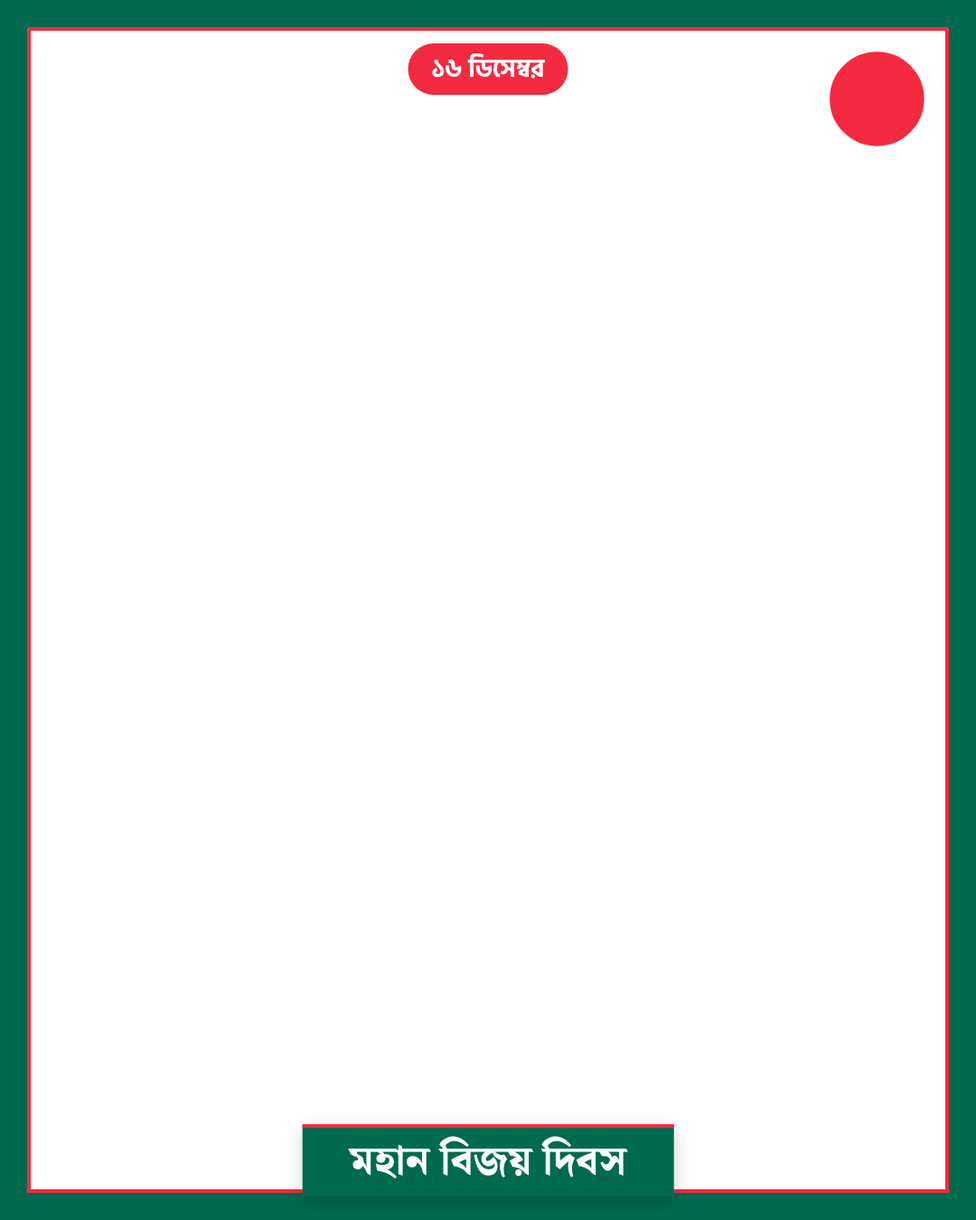
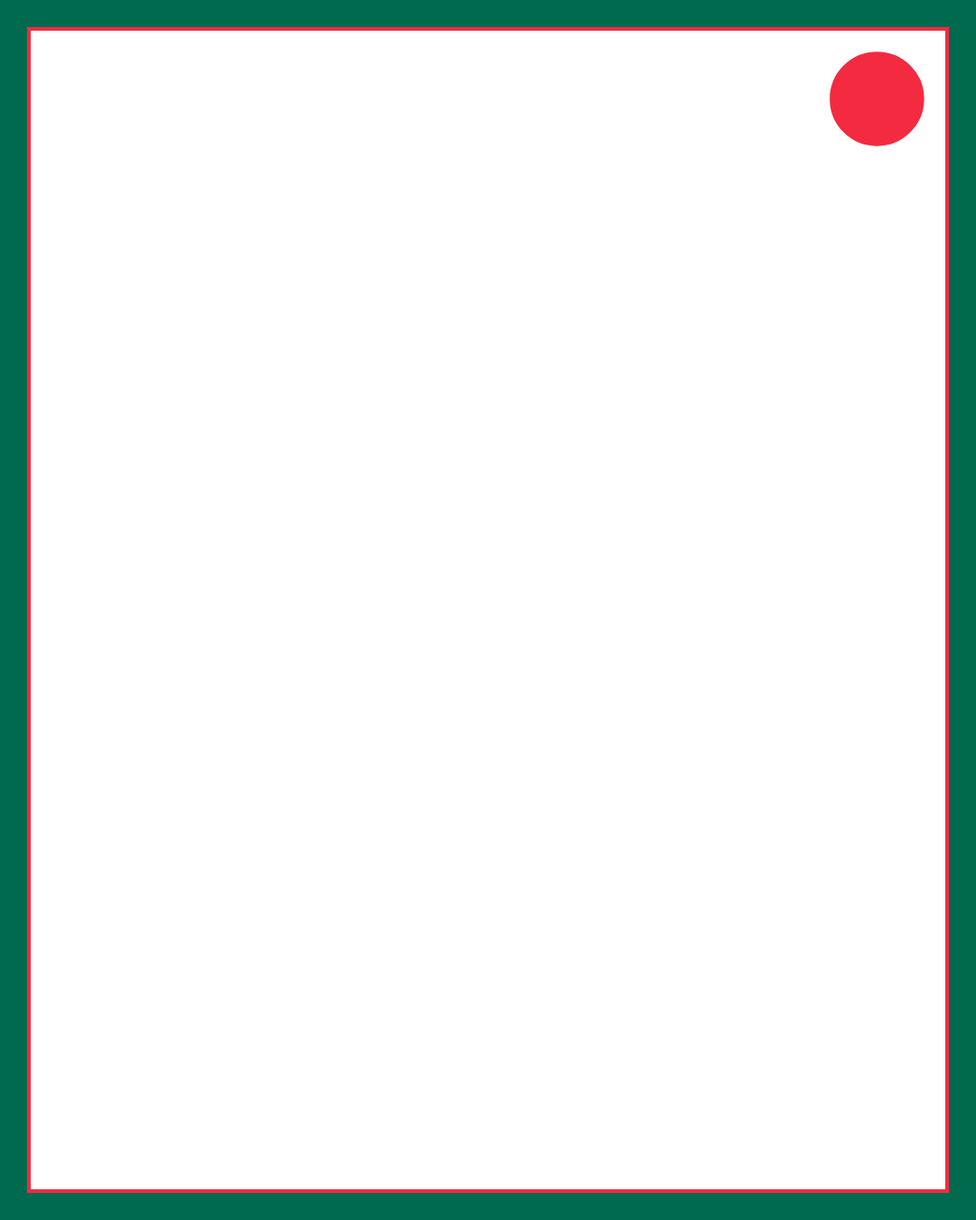
Make every ready-made frame a built-in studio design (2.0.5)
Uploaded and ready-made PNG frames were drawn over whichever stock layout
happened to be first, and the full-artwork types (day, birthday,
condolence) put their text straight over the photo, so they looked like
bare borders. Each design is now a built-in preset: a stock layout plus
its bundled PNG, picked and previewed like ক্লাসিক or ছায়া.

- News, feature, category: 8 designs; opinion: 3; day: 6; birthday: 2;
  condolence: 2. All four sizes.
- Day/birthday/condolence keep their artwork; their PNGs are re-rendered
  without the duplicate text labels (frames.html deco=1).
- Stock camera corners are off on these designs; breaking keeps the
  frames as ready-made rows.
- Frame thumbnails in the studio show the frame on a live card.

Claude-Session: https://claude.ai/code/session_01EUuurszYZyQdSQhF1CtKyJ

Changed region(s): [[0.3056, 0.9022, 0.7028, 0.9956], [0.3972, 0.0311, 0.5806, 0.0933]]

diff --git a/extras/photo-frames/source/news-opinion.js b/extras/photo-frames/source/news-opinion.js
@@ -1,0 +1,55 @@
+// Draws the 3 news + 3 opinion frames (theme presets surjo, nokshi, sonali, sompadokiyo, bishleshon, kolom) into out/, 4 sizes each.
+const {chromium}=require('/opt/node-tools/node_modules/playwright');
+const F='file:///home/claude/Meeha-Child-Theme/theme/meeha/assets/fonts/';
+const SIZES=[[1080,1080],[1080,1350],[1200,630],[1080,1920]];
+// tab at top centre: returns svg
+function tab(W,s0,txt,{fill,color,dot,w,stroke}){const s=Math.max(s0,.8);const h=58*s,tw=(w||320)*s,x=(W-tw)/2,r=16*s;
+ return `<path d="M${x} 0 H${x+tw} V${h-r} Q${x+tw} ${h} ${x+tw-r} ${h} H${x+r} Q${x} ${h} ${x} ${h-r} Z" fill="${fill}" ${stroke?`stroke="${stroke}" stroke-width="${3*s}"`:''}/>`+
+ (dot?`<circle cx="${x+34*s}" cy="${h/2}" r="${9*s}" fill="${dot}"/><circle cx="${x+34*s}" cy="${h/2}" r="${15*s}" fill="none" stroke="${dot}" stroke-opacity=".45" stroke-width="${3*s}"/>`:'')+
+ `<text x="${W/2+(dot?16*s:0)}" y="${h/2+1*s}" font-family="MS" font-weight="600" font-size="${27*s}" fill="${color}" text-anchor="middle" dominant-baseline="middle">${txt}</text>`;}
+function flower(cx,cy,r,c1,c2,c3){let p='';for(let i=0;i<8;i++){const a=i*Math.PI/4;p+=`<ellipse cx="${cx+Math.cos(a)*r*.55}" cy="${cy+Math.sin(a)*r*.55}" rx="${r*.42}" ry="${r*.2}" transform="rotate(${i*45} ${cx+Math.cos(a)*r*.55} ${cy+Math.sin(a)*r*.55})" fill="${i%2?c1:c2}"/>`;}
+ return p+`<circle cx="${cx}" cy="${cy}" r="${r*.26}" fill="${c3}"/><circle cx="${cx}" cy="${cy}" r="${r*.11}" fill="#fff"/>`;}
+const D={
+ 'news-surjo-nil':(W,H,s)=>{const B=26*s;return `<defs><linearGradient id="g" x1="0" y1="0" x2="1" y2="1"><stop offset="0" stop-color="#0A69C6"/><stop offset="1" stop-color="#00A6E0"/></linearGradient></defs>
+  <path fill-rule="evenodd" fill="url(#g)" d="M0 0H${W}V${H}H0Z M${B} ${B}V${H-B}H${W-B}V${B}Z"/>
+  <rect x="${B+7*s}" y="${B+7*s}" width="${W-2*B-14*s}" height="${H-2*B-14*s}" fill="none" stroke="#fff" stroke-opacity=".85" stroke-width="${2.5*s}"/>
+  ${[[0,0,1,1],[W,0,-1,1],[0,H,1,-1],[W,H,-1,-1]].map(([x,y,a,b])=>`<path d="M${x} ${y+b*110*s}V${y}H${x+a*110*s}" fill="none" stroke="#E5252A" stroke-width="${B*2}"/>`).join('')}
+  ${tab(W,s,'সর্বশেষ সংবাদ',{fill:'#012E5C',color:'#fff',dot:'#FF3B3F',w:330})}`;},
+ 'news-nokshi-lalsobuj':(W,H,s)=>{const B=22*s,i=B+12*s;return `<path fill-rule="evenodd" fill="#006A4E" d="M0 0H${W}V${H}H0Z M${B} ${B}V${H-B}H${W-B}V${B}Z"/>
+  <rect x="${B}" y="${B}" width="${W-2*B}" height="${H-2*B}" fill="none" stroke="#F42A41" stroke-width="${4*s}"/>
+  <rect x="${i}" y="${i}" width="${W-2*i}" height="${H-2*i}" fill="none" stroke="#FFF4D6" stroke-width="${3.5*s}" stroke-dasharray="${14*s} ${9*s}" stroke-linecap="round"/>
+  <rect x="${B/2}" y="${B/2}" width="${W-B}" height="${H-B}" fill="none" stroke="#FFD24A" stroke-width="${2.5*s}" stroke-dasharray="${5*s} ${11*s}" stroke-linecap="round"/>
+  ${[[B,B],[W-B,B],[B,H-B],[W-B,H-B]].map(([x,y])=>`<circle cx="${x}" cy="${y}" r="${30*s}" fill="#006A4E" stroke="#FFF4D6" stroke-width="${2.5*s}"/>`+flower(x,y,27*s,'#F42A41','#FFD24A','#F42A41')).join('')}
+  ${tab(W,s,'আজকের খবর',{fill:'#F42A41',color:'#fff',w:260})}`;},
+ 'news-bishesh-sonali':(W,H,s)=>{const B=30*s,g='#D9A93B';let o='';
+  for(const [x,y,a,b] of [[B,B,1,1],[W-B,B,-1,1],[B,H-B,1,-1],[W-B,H-B,-1,-1]]) o+=`<path d="M${x} ${y+b*70*s}V${y}H${x+a*70*s} M${x+a*12*s} ${y+b*46*s}V${y+b*12*s}H${x+a*46*s}" fill="none" stroke="${g}" stroke-width="${5*s}"/><rect x="${x+a*20*s-6*s}" y="${y+b*20*s-6*s}" width="${12*s}" height="${12*s}" fill="${g}" transform="rotate(45 ${x+a*20*s} ${y+b*20*s})"/>`;
+  return `<path fill-rule="evenodd" fill="#0B1F3A" d="M0 0H${W}V${H}H0Z M${B} ${B}V${H-B}H${W-B}V${B}Z"/>
+  <rect x="${B/2}" y="${B/2}" width="${W-B}" height="${H-B}" fill="none" stroke="${g}" stroke-width="${2*s}"/>
+  <rect x="${B}" y="${B}" width="${W-2*B}" height="${H-2*B}" fill="none" stroke="${g}" stroke-width="${3*s}"/>${o}
+  <defs><linearGradient id="gg" x1="0" x2="1"><stop offset="0" stop-color="#B8862A"/><stop offset=".5" stop-color="#F3D27A"/><stop offset="1" stop-color="#B8862A"/></linearGradient></defs>
+  ${tab(W,s,'বিশেষ প্রতিবেদন',{fill:'url(#gg)',color:'#0B1F3A',w:340,stroke:'#0B1F3A'})}`;},
+ 'opinion-sompadokiyo':(W,H,s)=>{const B=24*s;return `<path fill-rule="evenodd" fill="#F5EBDD" d="M0 0H${W}V${H}H0Z M${B} ${B}V${H-B}H${W-B}V${B}Z"/>
+  <rect x="${B}" y="${B}" width="${W-2*B}" height="${H-2*B}" fill="none" stroke="#0B2746" stroke-width="${4*s}"/>
+  <rect x="${B/2-1.5*s}" y="${B/2-1.5*s}" width="${W-B+3*s}" height="${H-B+3*s}" fill="none" stroke="#C9A24A" stroke-width="${1.6*s}"/>
+  ${[[B,B],[W-B,B],[B,H-B],[W-B,H-B]].map(([x,y])=>`<rect x="${x-9*s}" y="${y-9*s}" width="${18*s}" height="${18*s}" fill="#C9A24A" stroke="#0B2746" stroke-width="${3*s}" transform="rotate(45 ${x} ${y})"/>`).join('')}
+  <path d="M${W/2-90*s} ${H-B/2}H${W/2+90*s}" stroke="#0B2746" stroke-width="${4*s}"/><circle cx="${W/2}" cy="${H-B/2}" r="${7*s}" fill="#C9A24A"/>
+  ${tab(W,s,'সম্পাদকীয়',{fill:'#0B2746',color:'#F5EBDD',w:260})}`;},
+ 'opinion-bishleshon':(W,H,s)=>{const B=12*s,L=34*s;let dots='';for(let r=0;r<4;r++)for(let c=0;c<4;c++){dots+=`<circle cx="${W-B-22*s-c*20*s}" cy="${B+170*s+r*20*s}" r="${3.4*s}" fill="#13A5A0" fill-opacity="${.9-.18*(r+c)/2}"/><circle cx="${L+22*s+c*20*s}" cy="${H-B-22*s-r*20*s}" r="${3.4*s}" fill="#0A69C6" fill-opacity="${.9-.18*(r+c)/2}"/>`;}
+  return `<defs><linearGradient id="t" x1="0" y1="0" x2="0" y2="1"><stop offset="0" stop-color="#0A69C6"/><stop offset="1" stop-color="#13A5A0"/></linearGradient></defs>
+  <path fill-rule="evenodd" fill="url(#t)" d="M0 0H${W}V${H}H0Z M${L} ${B}V${H-B}H${W-B}V${B}Z"/>
+  <rect x="${L+10*s}" y="${B+10*s}" width="${W-L-B-20*s}" height="${H-2*B-20*s}" fill="none" stroke="#fff" stroke-opacity=".7" stroke-width="${2*s}"/>${dots}
+  ${tab(W,s,'বিশ্লেষণ',{fill:'#fff',color:'#0A69C6',w:220,stroke:'#13A5A0'})}`;},
+ 'opinion-khola-kolom':(W,H,s)=>{const B=22*s;const nib=(x,y,k)=>`<g transform="translate(${x} ${y}) scale(${k}) rotate(45)"><path d="M0 -40 C14 -22 16 0 10 18 L0 40 L-10 18 C-16 0 -14 -22 0 -40Z" fill="#B35A00"/><circle r="5" cy="2" fill="#FFF3E0"/><path d="M0 7V38" stroke="#FFF3E0" stroke-width="2.5"/></g>`;
+  return `<defs><linearGradient id="a" x1="0" y1="0" x2="1" y2="1"><stop offset="0" stop-color="#F2A33A"/><stop offset="1" stop-color="#E4572E"/></linearGradient></defs>
+  <path fill-rule="evenodd" fill="url(#a)" d="M0 0H${W}V${H}H0Z M${B} ${B}V${H-B}H${W-B}V${B}Z"/>
+  <path d="M${B} ${B+140*s}V${B}H${B+140*s} M${W-B} ${H-B-140*s}V${H-B}H${W-B-140*s}" fill="none" stroke="#fff" stroke-width="${6*s}" stroke-linecap="round"/>
+  ${tab(W,s,'খোলা কলম',{fill:'#FFF3E0',color:'#B35A00',w:270,stroke:'#E4572E'})}
+  ${nib(W/2-112*s,29*s,.62*s)}`;},
+};
+(async()=>{const b=await chromium.launch({executablePath:'/opt/pw-browsers/chromium'});const pg=await b.newPage();
+for(const [name,fn] of Object.entries(D)) for(const [W,H] of SIZES){const s=Math.min(W,H)/1080*(H===1920?1:1);
+ await pg.setViewportSize({width:W,height:H});
+ await pg.setContent(`<style>@font-face{font-family:MS;font-weight:600;src:url(${F}meeha-sans-bn-600.woff2)}@font-face{font-family:MSerif;font-weight:700;src:url(${F}meeha-serif-bn-700.woff2)}html,body{margin:0;background:transparent}</style><svg xmlns="http://www.w3.org/2000/svg" width="${W}" height="${H}">${fn(W,H,s)}</svg>`);
+ await pg.evaluate(()=>document.fonts.ready);await pg.waitForTimeout(80);
+ await pg.screenshot({path:`out/${name}-${W}x${H}.png`,omitBackground:true});}
+await b.close();})();

diff --git a/theme/meeha/assets/js/cards.js b/theme/meeha/assets/js/cards.js
@@ -327,7 +327,9 @@
 		stops.forEach( function ( s ) { g.addColorStop( s[ 0 ], s[ 1 ] ); } );
 		return g;
 	}
+	var NO_VF = false; /* a রেডিমেড নকশা brings its own corners and tags: the stock camera corners stay off */
 	function viewfinder( ctx, x, y, corner, color, arm, stroke ) {
+		if ( NO_VF ) { return; }
 		arm = arm || 56; stroke = stroke || 6;
 		ctx.fillStyle = color;
 		if ( 'tl' === corner ) { ctx.fillRect( x, y, arm, stroke ); ctx.fillRect( x, y, stroke, arm ); } else { ctx.fillRect( x, y + arm - stroke, arm, stroke ); ctx.fillRect( x + arm - stroke, y, stroke, arm ); }
@@ -1551,6 +1553,31 @@
 		fields: [ 'title', 'subtitle', 'message', 'theme', 'image' ], draw: day };
 	var ALIASES = { birth: 'birthday', 'news-card': 'news', dibos: 'day', shubho: 'morning', 'good-morning': 'morning', mot: 'opinion', latest: 'breaking', shok: 'condolence', cat: 'category', sahitya: 'literature', kobita: 'poem' };
 
+	/* রেডিমেড নকশা: a built-in layout + a bundled transparent PNG (assets/frames/png/{file}-{W}x{H}.png) drawn where an
+	   own frame would go (over the photo, under the text). Picked like any preset; the PHP list is meeha_studio_deco_presets(). */
+	var DECO_NEWS = {
+		surjo: [ 'classic', 'news-surjo-nil', 'সূর্য নীল' ], nokshi: [ 'overlay', 'news-nokshi-lalsobuj', 'নকশি লাল-সবুজ' ],
+		sonali: [ 'band', 'news-bishesh-sonali', 'বিশেষ সোনালি' ], sorboshesh: [ 'band', 'news-sorboshesh', 'সর্বশেষ ট্যাগ' ],
+		breakingband: [ 'overlay', 'news-breaking', 'ব্রেকিং ব্যান্ড' ], exclusive: [ 'classic', 'news-exclusive', 'এক্সক্লুসিভ ট্যাগ' ],
+		special: [ 'classic', 'news-meeha-special', 'মিহা স্পেশাল' ], bracket: [ 'overlay', 'news-nil-bracket', 'নীল কর্নার ব্র্যাকেট' ]
+	};
+	var DECO = {
+		news: DECO_NEWS,
+		feature: ( function () { var o = {}; Object.keys( DECO_NEWS ).forEach( function ( k ) { o[ k ] = [ 'classic' === DECO_NEWS[ k ][ 0 ] ? 'band' : 'shade', DECO_NEWS[ k ][ 1 ], DECO_NEWS[ k ][ 2 ] ]; } ); return o; }() ),
+		opinion: { sompadokiyo: [ 'paper', 'opinion-sompadokiyo', 'সম্পাদকীয়' ], bishleshon: [ 'blue', 'opinion-bishleshon', 'বিশ্লেষণ' ], kolom: [ 'blue', 'opinion-khola-kolom', 'খোলা কলম' ] }
+	};
+	DECO.category = DECO.feature;
+	/* full-artwork types: the stock artwork stays (frameMode overlay), the PNG adds its border and ornaments */
+	DECO.day = {
+		bijoy: [ 'victory', 'bijoy-dibos', 'বিজয় দিবস (সবুজ পাড়)' ], swadhinota: [ 'independence', 'swadhinota-dibos', 'স্বাধীনতা দিবস (লাল-সবুজ পাড়)' ],
+		ekushe: [ 'matribhasha', 'ekushe-february', 'অমর একুশে (বর্ণমালা ও মিনার)' ], boishakhpar: [ 'boishakh', 'pohela-boishakh', 'শুভ নববর্ষ (লাল ফোঁটা)' ],
+		eidpar: [ 'eid', 'eid-mubarak', 'ঈদ মোবারক (সোনালি পাড়)' ], sharodiya: [ 'puja', 'sharodiya-shubhechha', 'শারদীয় শুভেচ্ছা (কাশফুল)' ]
+	};
+	DECO.birthday = { utsob: [ 'balloon', 'jonmodin-confetti', 'কনফেটি ও বেলুন' ], sonali: [ 'night', 'jonmodin-sonali', 'সোনালি পাড়' ] };
+	DECO.condolence = { kalopar: [ 'light', 'shok-kalo-border', 'কালো পাড়' ], konafita: [ 'dark', 'shok-kona-fita', 'কোণের ফিতা (শ্রদ্ধাঞ্জলি)' ] };
+	function decoOf( type, preset ) { var d = DECO[ type ]; return d && preset && Object.prototype.hasOwnProperty.call( d, preset ) ? d[ preset ] : null; }
+	Object.keys( DECO ).forEach( function ( ty ) { if ( templates[ ty ] ) { var pr = Object.assign( {}, templates[ ty ].presets ); Object.keys( DECO[ ty ] ).forEach( function ( k ) { pr[ k ] = DECO[ ty ][ k ][ 2 ]; } ); templates[ ty ].presets = pr; } } );
+
 	function frameUrl( key, W, H ) {
 		var c = cfg(), sfx = 1080 === W && 1080 === H ? '' : '-' + W + 'x' + H;
 		if ( c.frames && c.frames[ key + sfx ] ) { return c.frames[ key + sfx ]; }
@@ -1570,6 +1597,11 @@
 		var t = templates[ type ];
 		if ( ! t ) { return Promise.reject( new Error( 'অজানা কার্ডের ধরন: ' + type ) ); }
 		data = data || {}; opts = opts || {};
+		var dz = opts.frame ? null : decoOf( type, opts.preset || ( 'news' === type ? cfg().newsDefault : '' ) );
+		if ( dz ) {
+			opts = Object.assign( {}, opts, { preset: dz[ 0 ], frameMode: 'overlay', frame: base() + 'assets/frames/png/' + dz[ 1 ] + '-' + ( SIZES[ opts.size ] ? opts.size : '1080x1080' ) + '.png' } );
+			if ( 'day' === type ) { data = Object.assign( {}, data, { theme: dz[ 0 ] } ); }
+		}
 		var sz = SIZES[ opts.size ] || SIZES[ '1080x1080' ], W = sz[ 0 ], H = sz[ 1 ];
 		if ( 1920 === H && ! soloMode( type, opts ) ) { return story( type, data, opts ); }
 		var land = 1200 === W;
@@ -1609,7 +1641,10 @@
 				if ( 'day' === type && DAY[ dayTheme( data, o ) ].noAd ) { o.ad = false; }
 			}
 			ctx.save();
-			if ( solo ) { ink = standalone( type, ctx, W, H, data, o, A, opts.frameText ); } else if ( land ) { landscape( type, ctx, W, H, data, o, A ); } else { t.draw( ctx, W, H, data, o, A ); }
+			NO_VF = !! dz && !! A.frameImg;
+			try {
+				if ( solo ) { ink = standalone( type, ctx, W, H, data, o, A, opts.frameText ); } else if ( land ) { landscape( type, ctx, W, H, data, o, A ); } else { t.draw( ctx, W, H, data, o, A ); }
+			} finally { NO_VF = false; }
 			ctx.restore();
 			if ( o.ad ) { adStrip( ctx, W, H, A.adImg ); }
 			cv.setAttribute( 'data-card-type', type );
@@ -1831,7 +1866,7 @@
 	}
 
 	root.MeehaCards = {
-		version: '2.0.4',
+		version: '2.0.5',
 		configure: configure,
 		preview: preview,
 		render: render,
@@ -1843,6 +1878,7 @@
 		quoteFrames: QUOTE,
 		sizes: { '1080x1080': [ 1080, 1080 ], '1080x1350': [ 1080, 1350 ], '1200x630': [ 1200, 630 ], '1080x1920': [ 1080, 1920 ] },
 		frameUrl: frameUrl,
+		isDeco: function ( type, preset ) { return !! decoOf( ALIASES[ type ] || type, preset ); },
 		bnDigits: bnDigits,
 		adAllowed: adAllowed,
 		isStandalone: function ( type ) { return !! SOLO_TYPES[ ALIASES[ type ] || type ]; },

diff --git a/extras/photo-frames/source/frames.html b/extras/photo-frames/source/frames.html
@@ -20,6 +20,8 @@
 const q = new URLSearchParams(location.search);
 const W = +q.get('w') || 1080, H = +q.get('h') || 1080;
 const id = q.get('id');
+// deco=1: the frame for a theme preset that already draws its own title, date and ribbon — leave the text labels out
+const DECO = !!q.get('deco');
 const stage = document.getElementById('stage');
 stage.style.width = W + 'px';
 stage.style.height = H + 'px';
@@ -60,6 +62,7 @@ function ornament(color, size, inset) {
 
 // Pill / tab label
 function tab(text, { bg, fg, top, bottom, size = 44, pad = '14px 44px', radius = 999, cls = 'serif', border = '' }) {
+  if (DECO) return;
   const v = top !== undefined ? `top:${top}px` : `bottom:${bottom}px`;
   label(text, `${v};left:50%;transform:translateX(-50%);background:${bg};color:${fg};font-size:${size}px;font-weight:800;line-height:1.25;padding:${pad};border-radius:${radius}px;white-space:nowrap;${border};box-shadow:0 6px 18px rgba(0,0,0,.18)`, cls);
 }
@@ -83,9 +86,11 @@ const F = {
     box(`inset:0;border:${b}px solid #111`);
     box(`inset:${b + 12}px;border:2px solid rgba(255,255,255,.75)`);
     // black mourning ribbon, top-left
+    if (!DECO) {
     const rib = `M28 150 L58 80 C72 50 68 14 50 14 C32 14 28 50 42 80 L72 150`;
     svg(`<path d="${rib}" fill="none" stroke="#fff" stroke-width="22" stroke-linejoin="round"/><path d="${rib}" fill="none" stroke="#111" stroke-width="14" stroke-linejoin="round"/>`,
       `left:${b + 30}px;top:${b + 26}px;width:${W * 0.1}px;height:${W * 0.16}px`, '0 0 100 160');
+    }
     tab('গভীর শোক', { bg: '#111', fg: '#fff', bottom: b - 2, size: Math.round(W * 0.036), radius: 0, pad: '10px 48px', border: 'border:2px solid rgba(255,255,255,.75)' });
   },
   'shok-kona-fita'() {
@@ -128,7 +133,7 @@ const F = {
     box(`inset:${b}px;border:4px solid ${BDRED}`);
     svg(`<circle cx="50" cy="50" r="46" fill="${BDRED}" stroke="#fff" stroke-width="4"/>`, `right:${b + 20}px;top:${b + 20}px;width:${W * 0.11}px;height:${W * 0.11}px`, '0 0 100 100');
     tab('মহান বিজয় দিবস', { bg: GREEN, fg: '#fff', bottom: b - 4, size: Math.round(W * 0.042), radius: 0, pad: '10px 52px', border: `border-top:4px solid ${BDRED}` });
-    label('১৬ ডিসেম্বর', `left:50%;transform:translateX(-50%);top:${b + 18}px;background:${BDRED};color:#fff;font-size:${W * 0.026}px;font-weight:700;padding:6px 26px;border-radius:999px`, 'sans');
+    if (!DECO) label('১৬ ডিসেম্বর', `left:50%;transform:translateX(-50%);top:${b + 18}px;background:${BDRED};color:#fff;font-size:${W * 0.026}px;font-weight:700;padding:6px 26px;border-radius:999px`, 'sans');
   },
   'swadhinota-dibos'() {
     const b = W * 0.028;
@@ -140,7 +145,7 @@ const F = {
     box(`inset:${b + 10}px;border:2px solid rgba(255,255,255,.85)`);
     svg(`<circle cx="50" cy="50" r="40" fill="${BDRED}"/><circle cx="50" cy="50" r="48" fill="none" stroke="#fff" stroke-width="3"/>`, `left:${b + 22}px;top:${b + 22}px;width:${W * 0.1}px;height:${W * 0.1}px`, '0 0 100 100');
     tab('মহান স্বাধীনতা ও জাতীয় দিবস', { bg: GREEN, fg: '#fff', bottom: b + 18, size: Math.round(W * 0.036), radius: 8, pad: '10px 40px' });
-    label('২৬ মার্চ', `right:${b + 24}px;top:${b + 24}px;background:#fff;color:${GREEN};font-size:${W * 0.028}px;font-weight:700;padding:4px 22px;border-radius:999px`, 'sans');
+    if (!DECO) label('২৬ মার্চ', `right:${b + 24}px;top:${b + 24}px;background:#fff;color:${GREEN};font-size:${W * 0.028}px;font-weight:700;padding:4px 22px;border-radius:999px`, 'sans');
   },
   'ekushe-february'() {
     const b = W * 0.024;
@@ -153,7 +158,7 @@ const F = {
     letters.slice(0, rows).forEach((l, i) => {
       label(l, `left:${b + 12}px;width:${W * 0.07}px;text-align:center;top:${b + 24 + i * step}px;color:#fff;font-size:${W * 0.036}px;font-weight:600`);
     });
-    shaheedMinar('#fff', `right:${b + 22}px;bottom:${b + 22}px;width:${W * 0.3}px;height:${W * 0.248}px;filter:drop-shadow(0 2px 6px rgba(0,0,0,.6))`);
+    if (!DECO) shaheedMinar('#fff', `right:${b + 22}px;bottom:${b + 22}px;width:${W * 0.3}px;height:${W * 0.248}px;filter:drop-shadow(0 2px 6px rgba(0,0,0,.6))`);
     tab('অমর একুশে', { bg: '#121212', fg: '#fff', top: b - 4, size: Math.round(W * 0.042), radius: 0, pad: '8px 52px', border: `border-bottom:4px solid ${BDRED}` });
   },
   'pohela-boishakh'() {

diff --git a/theme/meeha/assets/js/studio.js b/theme/meeha/assets/js/studio.js
@@ -20,10 +20,10 @@
 	};
 	/* draw a small live thumbnail of a built-in preset into a canvas */
 	var thumbQ = Promise.resolve();
-	function thumb( cv, type, preset, data, size ) {
+	function thumb( cv, type, preset, data, size, extra ) {
 		thumbQ = thumbQ.then( function () {
 			if ( ! cv.isConnected ) { return null; }
-			return MC.render( type, data, { preset: preset, size: size || '1080x1080' } ).then( function ( c ) {
+			return MC.render( type, data, Object.assign( { preset: preset, size: size || '1080x1080' }, extra || {} ) ).then( function ( c ) {
 				var x = cv.getContext( '2d' ), k = Math.min( cv.width / c.width, cv.height / c.height );
 				x.clearRect( 0, 0, cv.width, cv.height );
 				x.drawImage( c, ( cv.width - c.width * k ) / 2, ( cv.height - c.height * k ) / 2, c.width * k, c.height * k );
@@ -224,14 +224,20 @@
 				var tc = document.createElement( 'canvas' ); tc.width = 192; tc.height = 192; tc.className = 'ms-thumbc'; tc.setAttribute( 'aria-hidden', 'true' ); sw.appendChild( tc );
 				var td = cardData(); if ( 'day' === state.type ) { td.theme = r.preset; }
 				thumb( tc, state.type, r.preset, td, state.size );
+			} else if ( ! r.builtin ) {
+				/* an own / ready-made frame: show it on a live card, as it will come out (not the bare transparent PNG) */
+				var fc = document.createElement( 'canvas' ); fc.width = 192; fc.height = 192; fc.className = 'ms-thumbc'; fc.setAttribute( 'aria-hidden', 'true' ); sw.appendChild( fc );
+				var fd = cardData(), fx = { frame: r.frame.url };
+				if ( 'quote' === state.type ) { fx.builtinFrame = false; }
+				thumb( fc, state.type, framePreset(), fd, state.size, fx );
 			} else {
 				var img = document.createElement( 'img' ); img.alt = ''; img.loading = 'lazy';
-				img.src = r.builtin ? S.frameBase + 'quote-' + r.preset + '.svg' : r.frame.url;
-				sw.className += ' sw-img' + ( r.builtin ? '' : ' sw-checker' ); sw.appendChild( img );
+				img.src = S.frameBase + 'quote-' + r.preset + '.svg';
+				sw.className += ' sw-img'; sw.appendChild( img );
 			}
 			lab.appendChild( inp ); lab.appendChild( sw ); lab.appendChild( document.createTextNode( r.label ) );
 			if ( r.builtin && 0 === i ) { var tg = document.createElement( 'span' ); tg.className = 'tag'; tg.textContent = 'বিল্ট-ইন'; lab.appendChild( tg ); }
-			if ( ! r.builtin ) { var tu = document.createElement( 'span' ); tu.className = 'tag tag--own'; tu.textContent = solo() ? 'নিজের নকশা' : 'আপলোড'; lab.appendChild( tu ); li.className = 'is-own'; }
+			if ( ! r.builtin ) { var tu = document.createElement( 'span' ); tu.className = 'tag tag--own'; tu.textContent = r.frame.readymade ? 'রেডিমেড' : ( solo() ? 'নিজের নকশা' : 'আপলোড' ); lab.appendChild( tu ); li.className = 'is-own'; }
 			inp.addEventListener( 'change', function () {
 				state.sel[ state.type ] = r.key;
 				if ( 'quote' === state.type && r.builtin ) { state.quoteFrame = r.preset; }
@@ -618,13 +624,20 @@
 		var cat = S.categories.filter( function ( c ) { return String( c.id ) === String( f.category_id ); } )[ 0 ] || {};
 		return Object.assign( d, { category: cat.name || '', color: cat.color || '', title: f.title, image: img } );
 	}
+	/* the layout an own frame sits on: the type's first stock preset (news: the default from settings) */
+	function framePreset() {
+		var presets = Object.keys( typeConf().presets ), nd = S.newsDefault;
+		if ( 'quote' === state.type ) { return state.quoteFrame; }
+		if ( 'day' === state.type ) { return state.dayTheme; }
+		if ( 'news' === state.type && nd && presets.indexOf( nd ) > -1 && ! MC.isDeco( 'news', nd ) ) { return nd; }
+		return presets[ 0 ];
+	}
 	function cardOpts() {
 		var key = selKey(), o = { size: state.size };
-		var presets = Object.keys( typeConf().presets );
 		if ( 0 === key.indexOf( 'b:' ) ) { o.preset = key.slice( 2 ); } else {
 			var id = key.slice( 2 ), f = S.frames.filter( function ( x ) { return x.id === id; } )[ 0 ];
 			if ( f ) { o.frame = f.url; }
-			o.preset = 'quote' === state.type ? state.quoteFrame : ( 'day' === state.type ? state.dayTheme : ( 'news' === state.type ? ( S.newsDefault || presets[ 0 ] ) : presets[ 0 ] ) );
+			o.preset = framePreset();
 			if ( 'quote' === state.type ) { o.builtinFrame = false; }
 			if ( f && solo() ) { var ft = ftState(); o.frameText = { ink: ft.ink, pos: ft.pos, hide: Object.assign( {}, ft.hide ) }; }
 		}

diff --git a/extras/photo-frames/source/deco.js b/extras/photo-frames/source/deco.js
@@ -1,0 +1,16 @@
+// Renders the frames.html designs with deco=1 (no text labels) for the theme's দিবস / জন্মদিন / শোক presets, 4 sizes each.
+const { chromium } = require('/opt/node-tools/node_modules/playwright');
+const path = require('path');
+const SRC = '/home/claude/Meeha-Child-Theme/extras/photo-frames/source/frames.html', OUT = '/home/claude/Meeha-Child-Theme/theme/meeha/assets/frames/png/';
+const ids = ['shok-kalo-border','jonmodin-confetti','jonmodin-sonali','bijoy-dibos','swadhinota-dibos','ekushe-february','eid-mubarak'];
+const sizes = [[1080,1080],[1080,1350],[1200,630],[1080,1920]];
+(async () => {
+  const b = await chromium.launch({ executablePath: '/opt/pw-browsers/chromium' }); const p = await b.newPage();
+  for (const id of ids) for (const [w,h] of sizes) {
+    await p.setViewportSize({ width: w, height: h });
+    await p.goto('file://' + SRC + `?id=${id}&w=${w}&h=${h}&deco=1`);
+    await p.waitForSelector('body[data-ready="1"]'); await p.waitForTimeout(150);
+    await p.locator('#stage').screenshot({ path: `${OUT}${id}-${w}x${h}.png`, omitBackground: true });
+  }
+  await b.close();
+})();

diff --git a/theme/meeha/style.css b/theme/meeha/style.css
@@ -4,7 +4,7 @@ Theme URI: https://meeha.news/
 Author: Meeha News
 Author URI: https://meeha.news/
 Description: মিহা নিউজের নিজস্ব, স্বতন্ত্র (standalone) থিম — অনুসন্ধানী ও সর্বশেষ বাংলা সংবাদের জন্য দ্রুত, মোবাইল-প্রথম ও অ্যাক্সেসিবল নকশা। কোনো প্যারেন্ট থিম, Elementor বা jQuery লাগে না।
-Version: 2.0.4
+Version: 2.0.5
 Requires at least: 6.4
 Tested up to: 7.2
 Requires PHP: 7.4

diff --git a/theme/meeha/inc/studio/options.php b/theme/meeha/inc/studio/options.php
@@ -87,7 +87,62 @@ function meeha_studio_types() {
 			'ad'      => true,
 		),
 	);
+	foreach ( meeha_studio_deco_presets() as $type => $deco ) {
+		if ( isset( $types[ $type ] ) ) {
+			$types[ $type ]['presets'] += $deco;
+		}
+	}
 	return apply_filters( 'meeha_studio_types', $types );
+}
+
+/**
+ * রেডিমেড নকশা: built-in presets that are a stock layout plus a bundled PNG frame (assets/frames/png/).
+ * The layout + file for each id live in cards.js (DECO); keep the ids in sync. Off with the readymade_frames setting.
+ *
+ * @return array type => [ preset => label ]
+ */
+function meeha_studio_deco_presets() {
+	// Read the stored option directly: meeha_studio_opt() can fall back to the settings fields, which list these presets.
+	$stored = get_option( 'meeha_opt_photocard', array() );
+	if ( is_array( $stored ) && array_key_exists( 'readymade_frames', $stored ) && empty( $stored['readymade_frames'] ) ) {
+		return array();
+	}
+	$news = array(
+		'surjo'        => 'সূর্য নীল',
+		'nokshi'       => 'নকশি লাল-সবুজ',
+		'sonali'       => 'বিশেষ সোনালি',
+		'sorboshesh'   => 'সর্বশেষ ট্যাগ',
+		'breakingband' => 'ব্রেকিং ব্যান্ড',
+		'exclusive'    => 'এক্সক্লুসিভ ট্যাগ',
+		'special'      => 'মিহা স্পেশাল',
+		'bracket'      => 'নীল কর্নার ব্র্যাকেট',
+	);
+	return array(
+		'news'       => $news,
+		'feature'    => $news,
+		'category'   => $news,
+		'opinion'    => array(
+			'sompadokiyo' => 'সম্পাদকীয়',
+			'bishleshon'  => 'বিশ্লেষণ',
+			'kolom'       => 'খোলা কলম',
+		),
+		'day'        => array(
+			'bijoy'       => 'বিজয় দিবস (সবুজ পাড়)',
+			'swadhinota'  => 'স্বাধীনতা দিবস (লাল-সবুজ পাড়)',
+			'ekushe'      => 'অমর একুশে (বর্ণমালা ও মিনার)',
+			'boishakhpar' => 'শুভ নববর্ষ (লাল ফোঁটা)',
+			'eidpar'      => 'ঈদ মোবারক (সোনালি পাড়)',
+			'sharodiya'   => 'শারদীয় শুভেচ্ছা (কাশফুল)',
+		),
+		'birthday'   => array(
+			'utsob'  => 'কনফেটি ও বেলুন',
+			'sonali' => 'সোনালি পাড়',
+		),
+		'condolence' => array(
+			'kalopar'  => 'কালো পাড়',
+			'konafita' => 'কোণের ফিতা (শ্রদ্ধাঞ্জলি)',
+		),
+	);
 }
 
 /**
@@ -315,7 +370,7 @@ function meeha_studio_settings_fields() {
 			'type'    => 'select',
 			'label'   => 'নিউজ কার্ডের ডিফল্ট ফ্রেম',
 			'default' => 'classic',
-			'options' => meeha_studio_news_presets(),
+			'options' => meeha_studio_news_presets() + ( meeha_studio_deco_presets()['news'] ?? array() ),
 			'desc'    => 'পোস্টের ছবির কোণের ডাউনলোড বোতাম এই ফ্রেমে কার্ড বানায়; স্টুডিওতেও এটি আগে বাছাই থাকে।',
 		),
 		array(
@@ -412,7 +467,7 @@ function meeha_studio_settings_fields() {
 		array( 'key' => 'size_landscape', 'type' => 'checkbox', 'label' => '১২০০ × ৬৩০ (লিংক প্রিভিউ) মাপ চালু', 'default' => 1 ),
 		array( 'key' => 'size_story', 'type' => 'checkbox', 'label' => '১০৮০ × ১৯২০ (ফেসবুক/ইনস্টাগ্রাম স্টোরি) মাপ চালু', 'default' => 1, 'desc' => 'স্টোরিতে কার্ডটি মাঝখানে বসে, পেছনে তারই ঝাপসা রং; ওপরে লোগো, নিচে ছোট লেখা। অ্যাপের নিজের বোতামের জায়গা ফাঁকা থাকে।' ),
 		array( 'key' => 'story_cta', 'type' => 'text', 'label' => 'স্টোরির নিচের লেখা', 'default' => 'বিস্তারিত পড়ুন meeha.news-এ', 'desc' => 'স্টোরি মাপে কার্ডের নিচে বসে। শোক কার্ডে বসে না।' ),
-		array( 'key' => 'readymade_frames', 'type' => 'checkbox', 'label' => 'রেডিমেড ফ্রেম দেখান', 'default' => 1, 'desc' => 'থিমের সঙ্গে আসা ১৫টি স্বচ্ছ PNG ফ্রেম (নিউজ, শোক, জন্মদিন, দিবস), চার মাপেই। বন্ধ করলে স্টুডিওতে শুধু বিল্ট-ইন নকশা আর আপলোড করা ফ্রেম থাকে।' ),
+		array( 'key' => 'readymade_frames', 'type' => 'checkbox', 'label' => 'রেডিমেড নকশা ও ফ্রেম দেখান', 'default' => 1, 'desc' => 'নিউজ, ফিচার ও বিভাগে ৮টি, মতামতে ৩টি, দিবসে ৬টি, জন্মদিনে ২টি আর শোকে ২টি রেডিমেড নকশা (লেখা-ছবির লেআউটসহ), ব্রেকিং কার্ডে রেডিমেড ফ্রেম; চার মাপেই। বন্ধ করলে শুধু আগের বিল্ট-ইন নকশা আর আপলোড করা ফ্রেম থাকে।' ),
 		array( 'key' => 'ad_default', 'type' => 'checkbox', 'label' => 'নতুন কার্ডে বিজ্ঞাপন স্ট্রিপ ডিফল্টে টিক দেওয়া থাকবে', 'default' => 0, 'desc' => 'শোক কার্ডে কখনো বিজ্ঞাপন বসে না।' ),
 		array( 'type' => 'heading', 'label' => 'অনুমতি, ইতিহাস ও তারিখ' ),
 		array( 'key' => 'upload_role_meeha_publisher', 'type' => 'checkbox', 'label' => 'প্রকাশক (meeha_publisher) নিজের ফ্রেম আপলোড করতে পারবেন', 'default' => 1, 'desc' => 'অ্যাডমিনিস্ট্রেটর সবসময় পারেন।' ),

diff --git a/theme/meeha/inc/studio/frames.php b/theme/meeha/inc/studio/frames.php
@@ -46,23 +46,16 @@ function meeha_studio_readymade_frames() {
 	if ( ! meeha_studio_opt( 'readymade_frames', 1 ) ) {
 		return array();
 	}
-	$news = array( 'news', 'feature', 'breaking', 'category' );
+	$news = array( 'breaking' ); // every other type gets the ready-made designs as built-in presets (meeha_studio_deco_presets()).
 	$defs = array(
 		'news-nil-bracket'     => array( 'নীল কর্নার ব্র্যাকেট', $news ),
 		'news-breaking'        => array( 'ব্রেকিং ব্যান্ড', $news ),
 		'news-exclusive'       => array( 'এক্সক্লুসিভ ট্যাগ', $news ),
 		'news-sorboshesh'      => array( 'সর্বশেষ ট্যাগ', $news ),
 		'news-meeha-special'   => array( 'মিহা স্পেশাল', $news ),
-		'shok-kalo-border'     => array( 'কালো পাড় ও ফিতা', array( 'condolence' ) ),
-		'shok-kona-fita'       => array( 'কোণের ফিতা (শ্রদ্ধাঞ্জলি)', array( 'condolence' ) ),
-		'jonmodin-confetti'    => array( 'কনফেটি ও বেলুন', array( 'birthday' ) ),
-		'jonmodin-sonali'      => array( 'সোনালি পাড়', array( 'birthday' ) ),
-		'bijoy-dibos'          => array( 'বিজয় দিবস', array( 'day' ) ),
-		'swadhinota-dibos'     => array( 'স্বাধীনতা দিবস', array( 'day' ) ),
-		'ekushe-february'      => array( 'অমর একুশে', array( 'day' ) ),
-		'pohela-boishakh'      => array( 'পহেলা বৈশাখ', array( 'day' ) ),
-		'eid-mubarak'          => array( 'ঈদ মোবারক', array( 'day' ) ),
-		'sharodiya-shubhechha' => array( 'শারদীয় শুভেচ্ছা', array( 'day' ) ),
+		'news-surjo-nil'       => array( 'সূর্য নীল', $news ),
+		'news-nokshi-lalsobuj' => array( 'নকশি লাল-সবুজ', $news ),
+		'news-bishesh-sonali'  => array( 'বিশেষ সোনালি', $news ),
 	);
 	$out = array();
 	foreach ( $defs as $file => $d ) {

diff --git a/theme/meeha/functions.php b/theme/meeha/functions.php
@@ -11,7 +11,7 @@
 defined( 'ABSPATH' ) || exit;
 
 if ( ! defined( 'MEEHA_VERSION' ) ) {
-	define( 'MEEHA_VERSION', '2.0.4' );
+	define( 'MEEHA_VERSION', '2.0.5' );
 }
 if ( ! defined( 'MEEHA_DIR' ) ) {
 	define( 'MEEHA_DIR', untrailingslashit( get_template_directory() ) );
